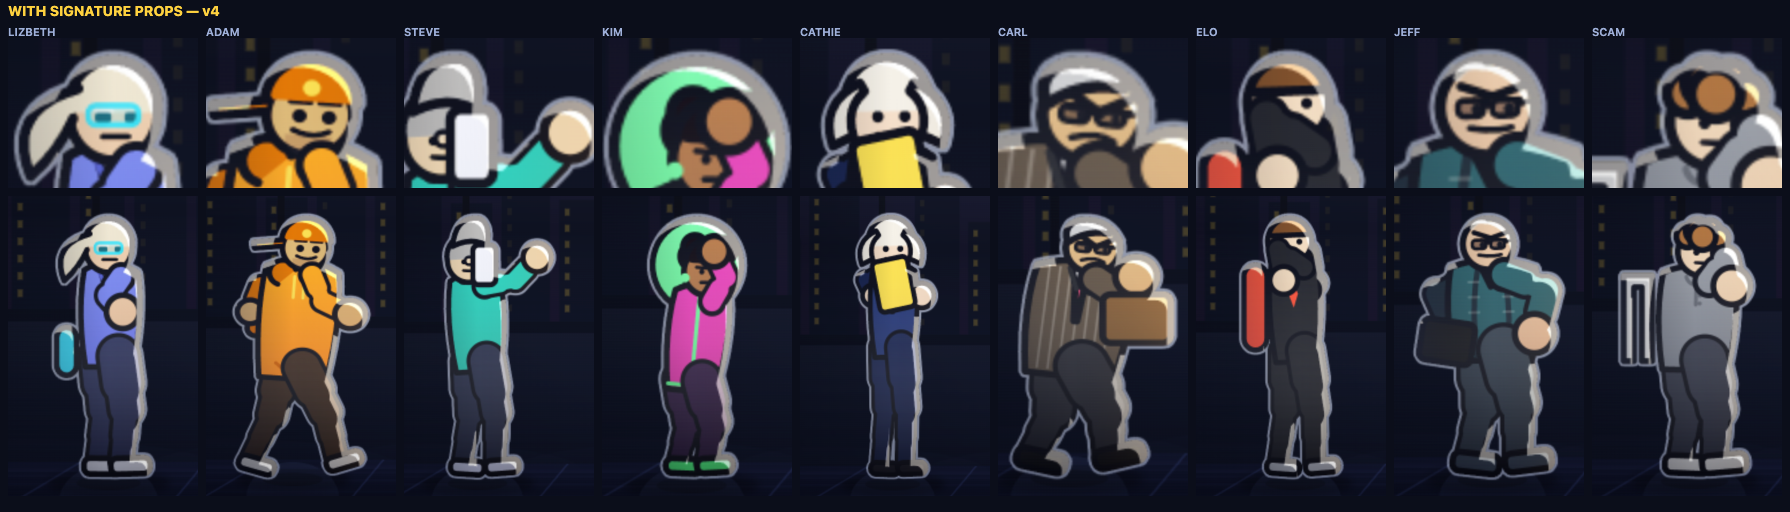
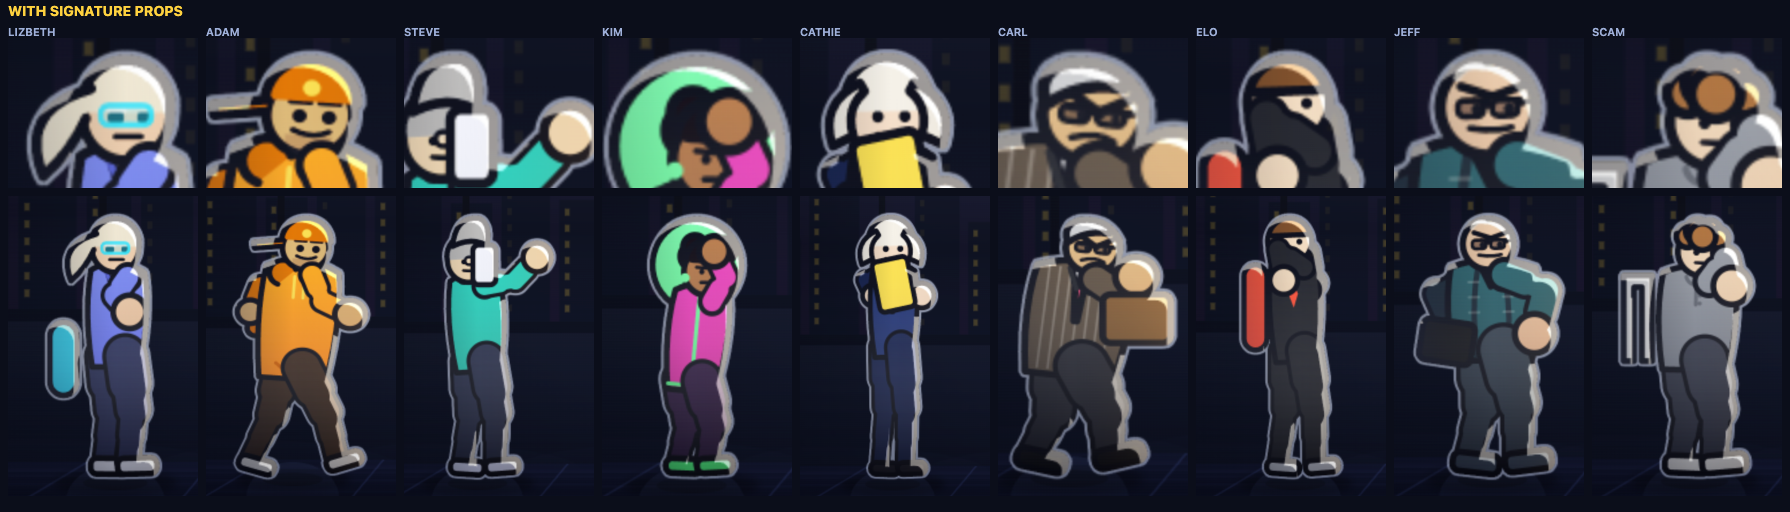
test(parts): silhouette acceptance — the two shape families break up
Lizbeth's vial was the weakest break, barely a bump on a plain column;
enlarged so it reads at silhouette size.

Measured against shots/roster-silhouette.png, captured before this work.
Before: five near-identical narrow columns (Lizbeth, Kim, Cathie, Elo,
Scam), three wide and blocky (Adam, Carl, Jeff), and Steve — whose outline
was the only nameable one, and only because an extended arm broke the
column.

After: every fighter carries a shape leaving its body outline, and no two
break it in the same place — hip-left, shoulder-diagonal, arm-forward,
head-halo, chest, hip-right, back, hand, side-slab.

Changed region(s): [[0.0, 0.4062, 0.0922, 0.9375], [0.0, 0.0625, 0.1229, 0.375], [0.0922, 0.0, 0.1229, 0.0312]]

diff --git a/src/data/fighters.js b/src/data/fighters.js
@@ -130,8 +130,8 @@ export const FIGHTERS = [
       { id: 'guard-case', shape: 'roundRect', anchor: 'armF', dx: 8, dy: 52,
         w: 40, h: 32, fill: '#6b4a2b', z: 'front', states: ['block'] },
       // ava — LIZBETH HOLMEZ, THERAMOS. The sample vial, worn at the hip.
-      { id: 'vial', shape: 'capsule', anchor: 'hip', dx: -26, dy: -4,
-        w: 16, h: 38, fill: 'accent', z: 'front' },
+      { id: 'vial', shape: 'capsule', anchor: 'hip', dx: -34, dy: 2,
+        w: 22, h: 58, fill: 'accent', z: 'front' },
     ],
   },
   {
